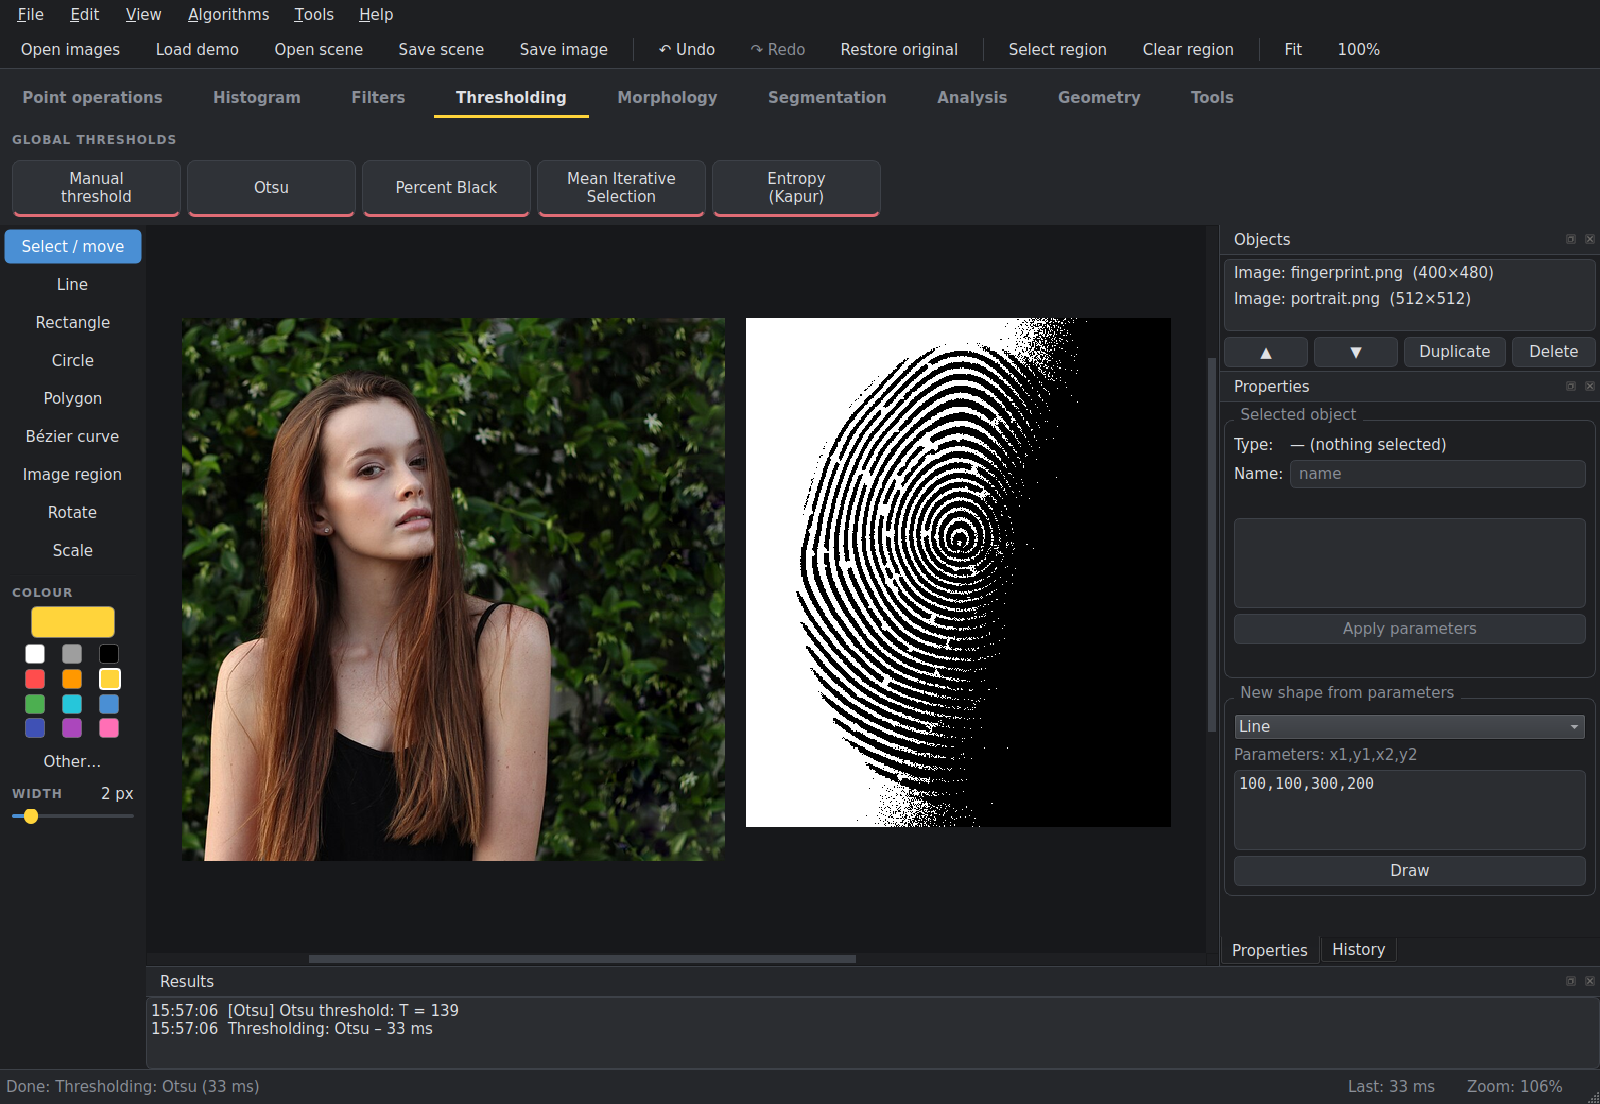
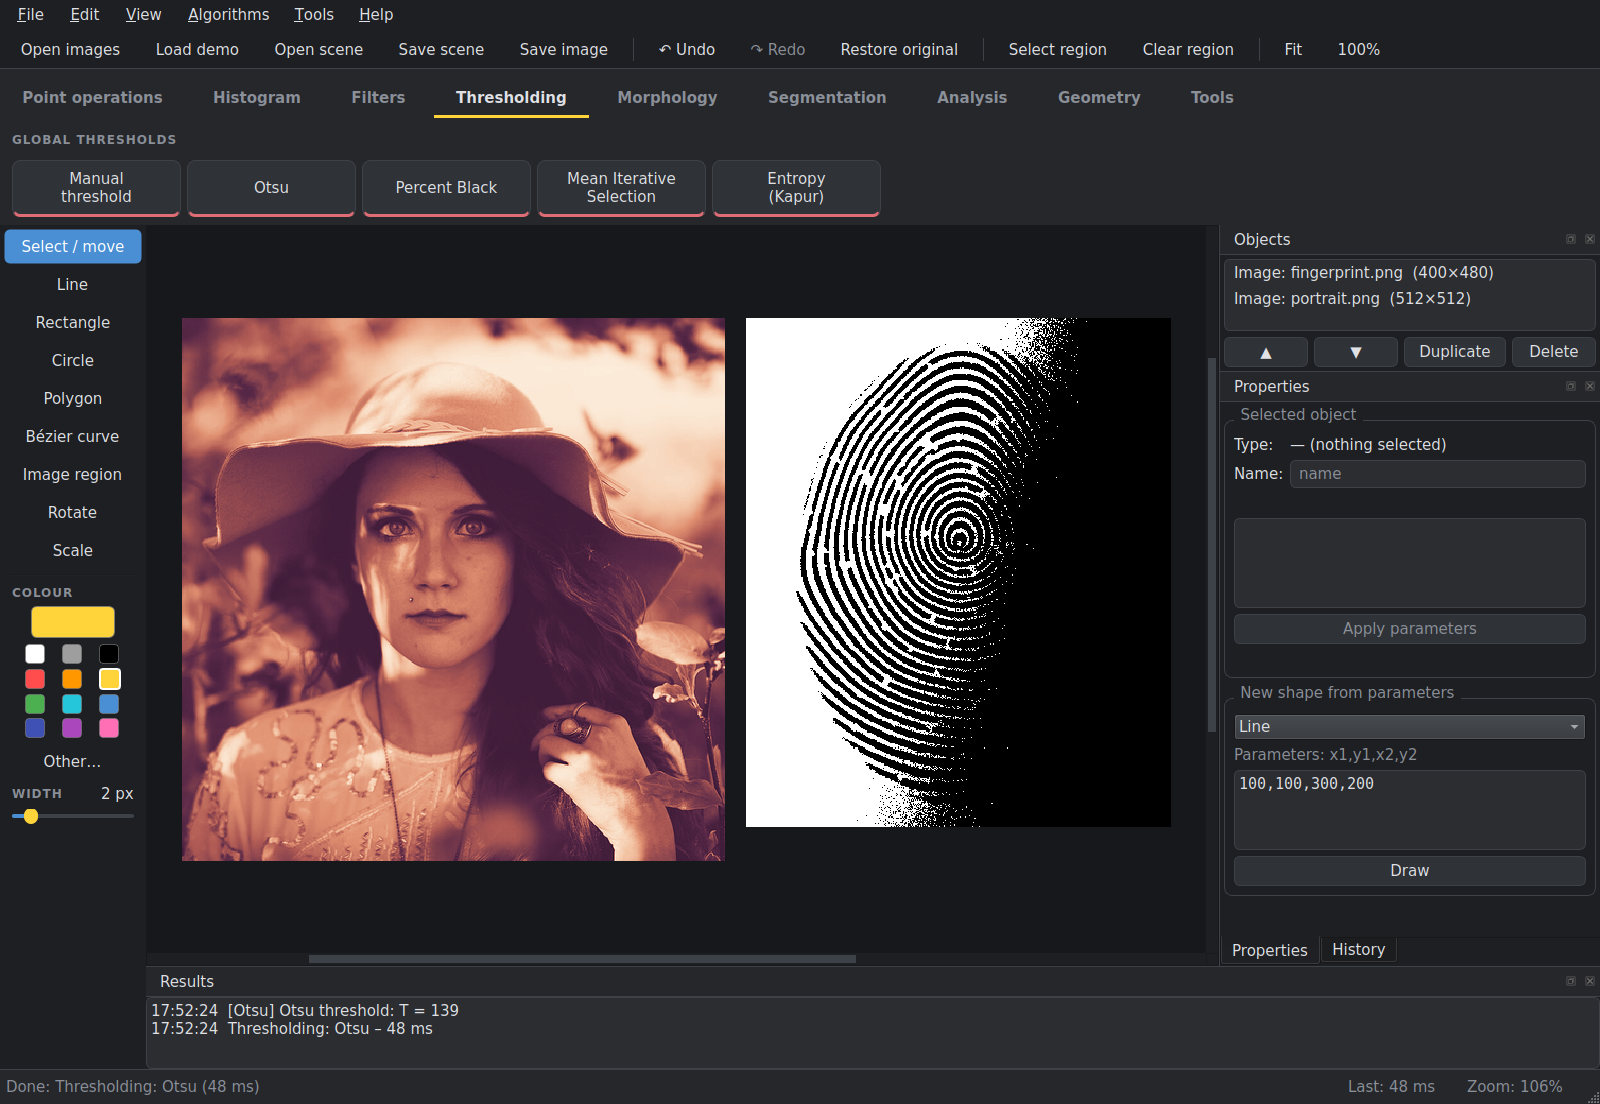
Replace demo portrait

Changed region(s): [[0.0938, 0.2772, 0.4688, 0.8007]]

diff --git a/README.pl.md b/README.pl.md
@@ -84,5 +84,5 @@ liczenie w tle i krok w historii powstają na podstawie tej deklaracji.
 
 ## Źródła
 
-Portret demo: zdjęcie [Christopher Campbell](https://unsplash.com/photos/3hoAon9Mc88) (CC0).
+Portret demo: zdjęcie [Rachael Crowe](https://unsplash.com/photos/tqar8J3fZ3o) (CC0), z dodanym tonowaniem kolorów.
 Odcisk palca demo jest wygenerowany syntetycznie.

diff --git a/README.md b/README.md
@@ -84,5 +84,5 @@ background execution and undo step are generated from that declaration.
 
 ## Credits
 
-Demo portrait: photo by [Christopher Campbell](https://unsplash.com/photos/3hoAon9Mc88) (CC0).
+Demo portrait: photo by [Rachael Crowe](https://unsplash.com/photos/tqar8J3fZ3o) (CC0), colour-toned.
 The demo fingerprint is synthetic.
